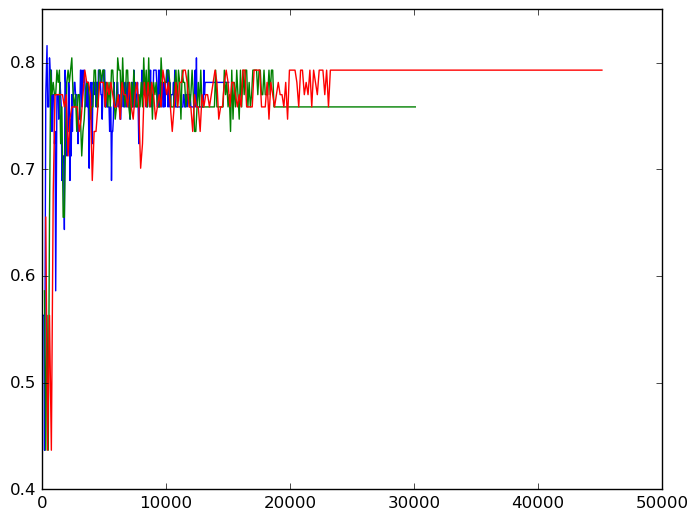
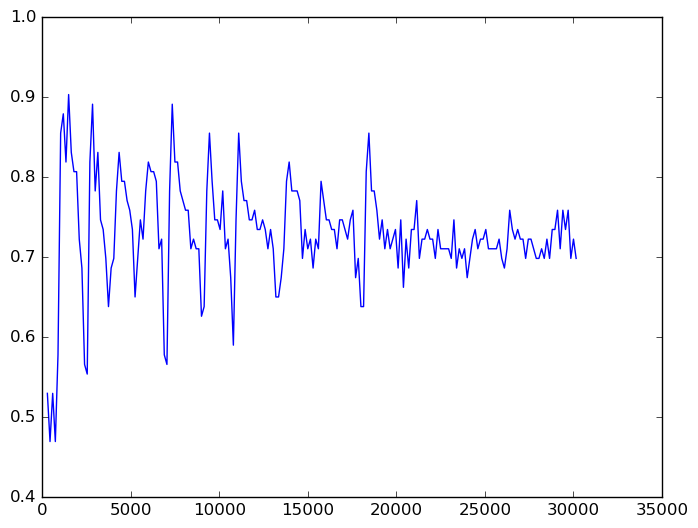
fingle machine for 200 iteration

diff --git a/matrix_factorization/singleMachine_linear.py b/matrix_factorization/singleMachine_linear.py
@@ -24,7 +24,7 @@ def CSV_to_sparse(netflix_file):
         data_rating.append(float(line_array[2]))
     return csr_matrix((data_rating, (row_indices, col_indices)))
 
-def matrix_factorization(R, P, Q, K, steps=30, alpha=0.0002, beta=0.02):
+def matrix_factorization(R, P, Q, K, steps=200, alpha=0.0002, beta=0.02):
     iterative_time = list()
     error = list()
     Q = Q.T
@@ -47,10 +47,10 @@ def matrix_factorization(R, P, Q, K, steps=30, alpha=0.0002, beta=0.02):
         iterative_time.append(step)
         error.append(e)
         print "iterative steps: ", e, step
-        if e < 0.001:
-            break
+        # if e < 0.001:
+        #     break
     plt.plot(iterative_time, error)
-    savefig('single_30_mf.png', bbox_inches='tight')
+    savefig('single_200_mf.png', bbox_inches='tight')
     return P, Q.T
 
 if __name__ == "__main__":

diff --git a/test.py b/test.py
@@ -179,7 +179,7 @@ if __name__ == "__main__":
 
     time_cost = list()
     total_iteration = 30000
-    for pack_size in [50, 100, 150, 200, 250]:
+    for pack_size in [150]:
         n_iters = total_iteration / pack_size
         start_time = time.time()
         model, s = pPackSVM_train(training, n_iters, pack_size, float(0.3)/ n_train, 0.1, test)
@@ -189,7 +189,7 @@ if __name__ == "__main__":
     with open("time.json",'wb') as f_out:
         f_out.write(json.dumps(time_cost))
     
-    print("Accuracy: " + str(acc))
+    # print("Accuracy: " + str(acc))
 
     sc.stop()
 
